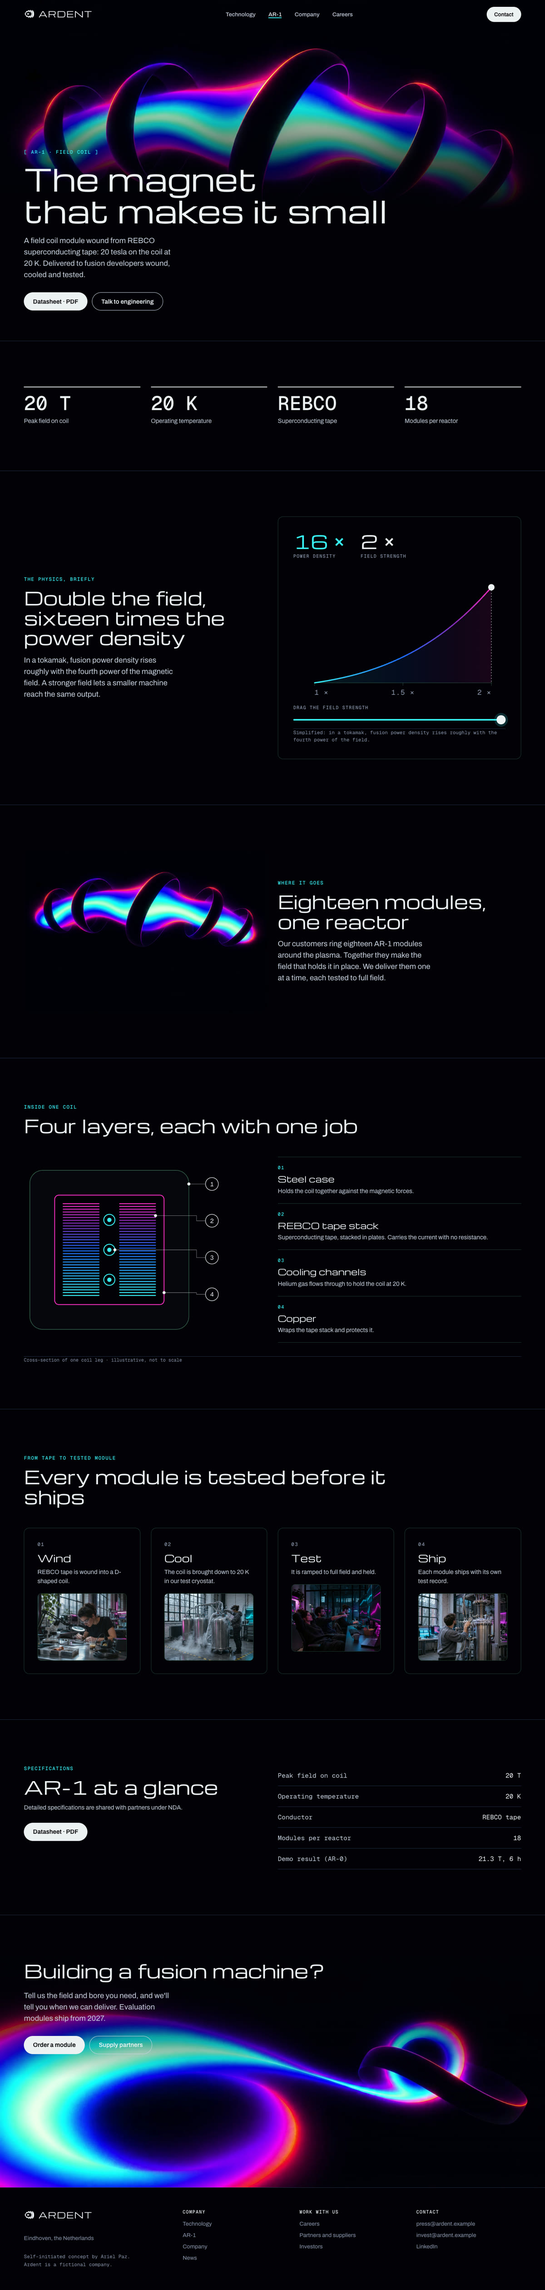
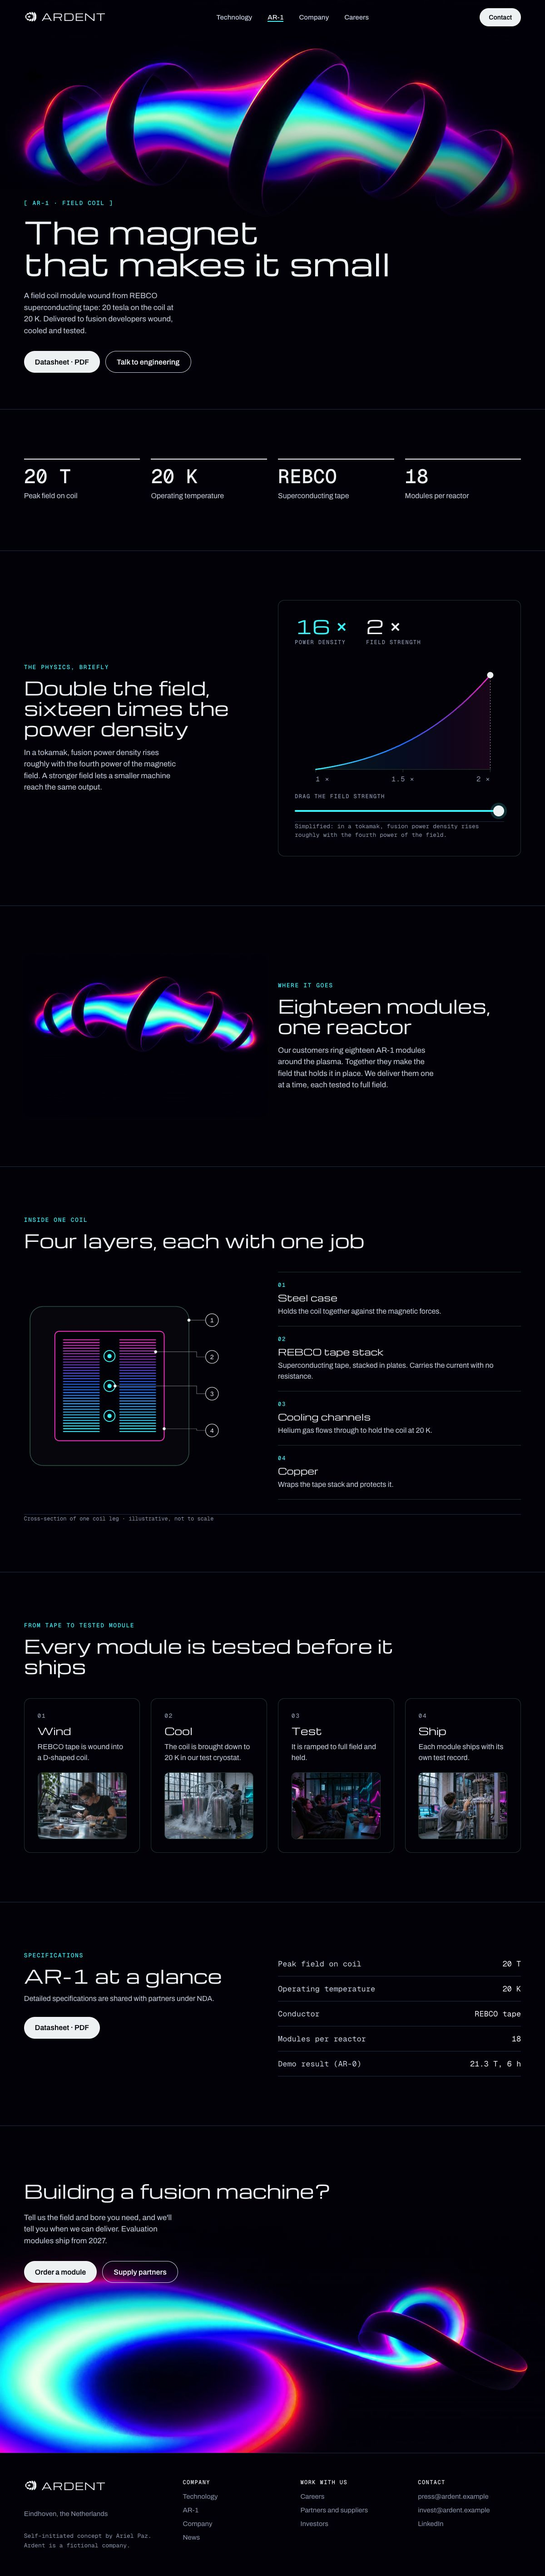
Ardent: site clips play inside the page scrolls; stickers padded so nothing crops

diff --git a/projects/ardent.html b/projects/ardent.html
@@ -41,6 +41,8 @@
   .browser .bar span { margin-left: 12px; font: 500 11px 'Geist Mono', monospace; color: var(--a-mute); }
   .scroll { overflow-y: auto; overscroll-behavior: contain; scrollbar-width: thin; scrollbar-color: #2A2833 transparent; }
   .scroll img { display: block; width: 100%; height: auto; }
+  .shot { position: relative; }
+  .shot .ov { position: absolute; object-fit: cover; display: block; }
   .browser .scroll { aspect-ratio: 16 / 10; }
   .phones { display: grid; grid-template-columns: repeat(2, 1fr); gap: 8%; padding: 48px 22%; margin-top: 14px; }
   .phone { border-radius: 13% / 6%; overflow: hidden; box-shadow: 0 0 0 1px var(--a-edge), 0 28px 60px rgba(0,0,0,.45); }
@@ -129,11 +131,11 @@
     </section>
     <div class="browser show">
       <div class="bar"><i></i><i></i><i></i><span>ardent.example/ar-1</span></div>
-      <div class="scroll" tabindex="0" aria-label="The AR-1 product page, full length"><img src="../images/process/ardent/site-ar-1.jpg" alt="The AR-1 product page" loading="lazy"></div>
+      <div class="scroll" tabindex="0" aria-label="The AR-1 product page, full length"><div class="shot"><img src="../images/process/ardent/site-ar-1.jpg" alt="The AR-1 product page" loading="lazy"><video class="ov" data-src="../ardent-fusion/web/site/media/holding.mp4" muted loop playsinline preload="none" aria-hidden="true" style="left:0.000%;top:0.000%;width:100.000%;height:9.846%;object-position:50% 0%"></video><video class="ov" data-src="../ardent-fusion/web/site/media/holding.mp4" muted loop playsinline preload="none" aria-hidden="true" style="left:4.417%;top:37.074%;width:44.583%;height:6.300%;object-position:50% 50%;border-radius:2.24% / 3.36%"></video><video class="ov" data-src="../ardent-fusion/web/site/media/small.mp4" muted loop playsinline preload="none" aria-hidden="true" style="left:0.000%;top:82.530%;width:100.000%;height:12.687%;object-position:50% 100%"></video></div></div>
     </div>
     <div class="phones dark">
-      <figure><div class="phone"><div class="scroll" tabindex="0"><img src="../images/process/ardent/site-technology-phone.jpg" alt="Technology page on a phone" loading="lazy"></div></div><figcaption class="cap">Technology</figcaption></figure>
-      <figure><div class="phone"><div class="scroll" tabindex="0"><img src="../images/process/ardent/site-ar-1-phone.jpg" alt="AR-1 product page on a phone" loading="lazy"></div></div><figcaption class="cap">AR-1</figcaption></figure>
+      <figure><div class="phone"><div class="scroll" tabindex="0"><div class="shot"><img src="../images/process/ardent/site-technology-phone.jpg" alt="Technology page on a phone" loading="lazy"><video class="ov" data-src="../ardent-fusion/web/site/media/plasma.mp4" muted loop playsinline preload="none" aria-hidden="true" style="left:0.000%;top:1.340%;width:100.000%;height:4.584%;object-position:70% 50%"></video><video class="ov" data-src="../ardent-fusion/web/site/media/holding.mp4" muted loop playsinline preload="none" aria-hidden="true" style="left:0.000%;top:26.481%;width:100.000%;height:4.584%;object-position:50% 0%"></video><video class="ov" data-src="../ardent-fusion/web/site/media/small.mp4" muted loop playsinline preload="none" aria-hidden="true" style="left:0.000%;top:51.234%;width:100.000%;height:4.584%;object-position:50% 100%"></video></div></div></div><figcaption class="cap">Technology</figcaption></figure>
+      <figure><div class="phone"><div class="scroll" tabindex="0"><div class="shot"><img src="../images/process/ardent/site-ar-1-phone.jpg" alt="AR-1 product page on a phone" loading="lazy"><video class="ov" data-src="../ardent-fusion/web/site/media/holding.mp4" muted loop playsinline preload="none" aria-hidden="true" style="left:0.000%;top:2.041%;width:100.000%;height:6.982%;object-position:50% 0%"></video><video class="ov" data-src="../ardent-fusion/web/site/media/holding.mp4" muted loop playsinline preload="none" aria-hidden="true" style="left:4.359%;top:55.800%;width:91.282%;height:6.364%;object-position:50% 50%;border-radius:3.37% / 5.06%"></video></div></div></div><figcaption class="cap">AR-1</figcaption></figure>
     </div>
 
     <section class="block">
@@ -198,7 +200,7 @@
   const nav = document.getElementById('nav');
   addEventListener('scroll', () => nav.classList.toggle('is-scrolled', scrollY > 8), { passive: true });
   // Videos play only while on screen
-  const vio = new IntersectionObserver((es) => es.forEach((e) => { e.isIntersecting ? e.target.play().catch(() => {}) : e.target.pause(); }), { threshold: 0.15 });
+  const vio = new IntersectionObserver((es) => es.forEach((e) => { const v = e.target; if (e.isIntersecting) { if (v.dataset.src && !v.src) v.src = v.dataset.src; v.play().catch(() => {}); } else v.pause(); }), { threshold: 0.15, rootMargin: '200px 0px' });
   document.querySelectorAll('video').forEach((v) => { v.muted = true; vio.observe(v); });
 }());
 </script>
